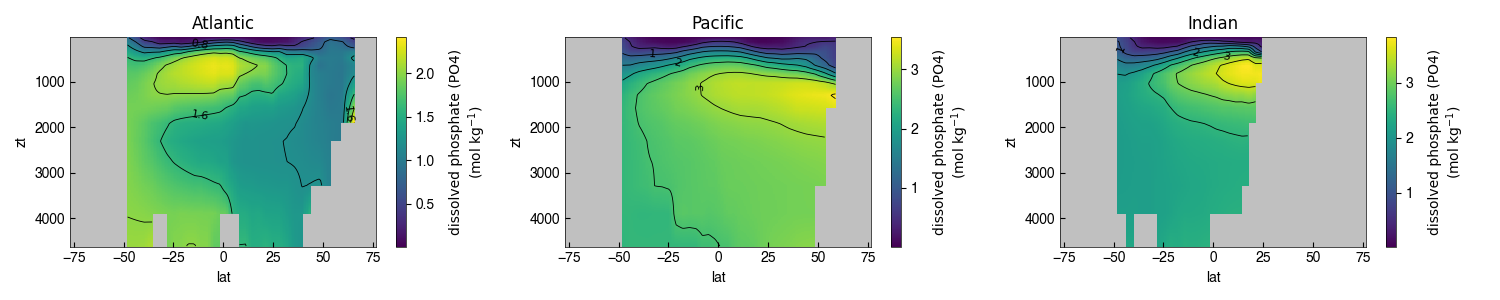
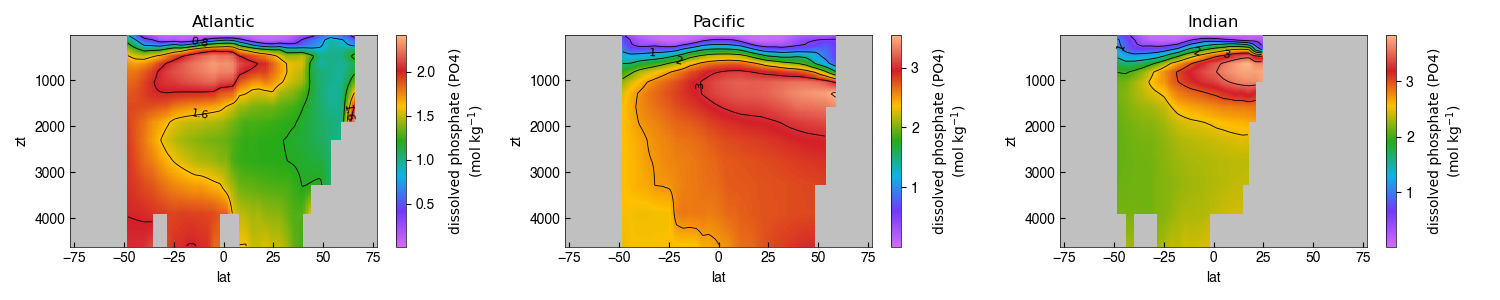
modify the PO4 distribution plot example

diff --git a/docs/source/auto_examples/plot_PO4_distribution.py b/docs/source/auto_examples/plot_PO4_distribution.py
@@ -3,23 +3,35 @@
 Plot 2D transect of tracers in each basin
 =========================================
 
-This example shows how to plot the PO4 distribution in each basin.
+This example plots the modelled PO4 distribution in cGENIE.
+
+The following features in the package are used:
+* Access data through `cgeniepy.model` module
+* A basin-mask operation
+* A linear interpolation
+* Additional color palette (mirrors the one in ODV)
+* Self-optimised plotting method
 """
 
 from cgeniepy.model import GenieModel
+from cgeniepy.plot import CommunityPalette
 import matplotlib.pyplot as plt
 
 model = GenieModel("/Users/yingrui/Science/lgm_foram_niche/model/muffin.CBE.worlg4.BASESFeTDTL.SPIN")
 ocn_po4 = model.get_var("ocn_PO4").isel(time=-1)
 
-fig, axs=plt.subplots(nrows=1, ncols=3, figsize=(15, 3), tight_layout=True)        
+fig, axs=plt.subplots(nrows=1, ncols=3, figsize=(15, 3), tight_layout=True)
 
 basins = ['Atlantic', 'Pacific', 'Indian']
 
-for i in range(3):
-	basin_data = model.get_var('ocn_PO4').isel(time=-1).mask_basin(base='worjh2',basin=basins[i], subbasin='')
-	basin_data.data.values = basin_data.data.values * 1E6
-	basin_data.mean(dim='lon').interpolate().plot(ax=axs[i], contour=True)
-	axs[i].title.set_text(basins[i])
+odv_cmap = CommunityPalette().get_palette('ODV', reverse=True)
 
-plt.show()        
+for i in range(3):
+    basin_data = model.get_var('ocn_PO4').isel(time=-1).mask_basin(base='worjh2',basin=basins[i], subbasin='')
+    basin_data.data.values = basin_data.data.values * 1E6
+    basin_data_interp = basin_data.mean(dim='lon').interpolate().to_GriddedDataVis()
+    basin_data_interp.aes_dict['pcolormesh_kwargs']['cmap'] = odv_cmap
+    basin_data_interp.plot(ax=axs[i], contour=True)
+    axs[i].title.set_text(basins[i])
+
+plt.show()

diff --git a/docs/source/auto_examples/plot_PO4_distribution.rst b/docs/source/auto_examples/plot_PO4_distribution.rst
@@ -22,9 +22,16 @@
 Plot 2D transect of tracers in each basin
 =========================================
 
-This example shows how to plot the PO4 distribution in each basin.
+This example plots the modelled PO4 distribution in cGENIE.
 
-.. GENERATED FROM PYTHON SOURCE LINES 8-26
+The following features in the package are used:
+* Access data through `cgeniepy.model` module
+* A basin-mask operation
+* A linear interpolation
+* Additional color palette (mirrors the one in ODV)
+* Self-optimised plotting method
+
+.. GENERATED FROM PYTHON SOURCE LINES 15-38
 
 
 
@@ -38,7 +45,8 @@ This example shows how to plot the PO4 distribution in each basin.
 
  .. code-block:: none
 
-    /Users/yingrui/cgeniepy/src/cgeniepy/model.py:48: UserWarning: No gemflag is provided, use default gemflags: [biogem]
+    <frozen importlib._bootstrap>:241: RuntimeWarning: scipy._lib.messagestream.MessageStream size changed, may indicate binary incompatibility. Expected 56 from C header, got 64 from PyObject
+    /Users/yingrui/cgeniepy/src/cgeniepy/model.py:49: UserWarning: No gemflag is provided, use default gemflags: [biogem]
       warnings.warn("No gemflag is provided, use default gemflags: [biogem]")
 
 
@@ -52,27 +60,32 @@ This example shows how to plot the PO4 distribution in each basin.
 
 
     from cgeniepy.model import GenieModel
+    from cgeniepy.plot import CommunityPalette
     import matplotlib.pyplot as plt
 
     model = GenieModel("/Users/yingrui/Science/lgm_foram_niche/model/muffin.CBE.worlg4.BASESFeTDTL.SPIN")
     ocn_po4 = model.get_var("ocn_PO4").isel(time=-1)
 
-    fig, axs=plt.subplots(nrows=1, ncols=3, figsize=(15, 3), tight_layout=True)        
+    fig, axs=plt.subplots(nrows=1, ncols=3, figsize=(15, 3), tight_layout=True)
 
     basins = ['Atlantic', 'Pacific', 'Indian']
 
-    for i in range(3):
-    	basin_data = model.get_var('ocn_PO4').isel(time=-1).mask_basin(base='worjh2',basin=basins[i], subbasin='')
-    	basin_data.data.values = basin_data.data.values * 1E6
-    	basin_data.mean(dim='lon').interpolate().plot(ax=axs[i], contour=True)
-    	axs[i].title.set_text(basins[i])
+    odv_cmap = CommunityPalette().get_palette('ODV', reverse=True)
 
-    plt.show()        
+    for i in range(3):
+        basin_data = model.get_var('ocn_PO4').isel(time=-1).mask_basin(base='worjh2',basin=basins[i], subbasin='')
+        basin_data.data.values = basin_data.data.values * 1E6
+        basin_data_interp = basin_data.mean(dim='lon').interpolate().to_GriddedDataVis()
+        basin_data_interp.aes_dict['pcolormesh_kwargs']['cmap'] = odv_cmap
+        basin_data_interp.plot(ax=axs[i], contour=True)
+        axs[i].title.set_text(basins[i])
+
+    plt.show()
 
 
 .. rst-class:: sphx-glr-timing
 
-   **Total running time of the script:** (0 minutes 1.833 seconds)
+   **Total running time of the script:** (0 minutes 1.609 seconds)
 
 
 .. _sphx_glr_download_auto_examples_plot_PO4_distribution.py:

diff --git a/docs/source/auto_examples/sg_execution_times.rst b/docs/source/auto_examples/sg_execution_times.rst
@@ -6,7 +6,7 @@
 
 Computation times
 =================
-**00:03.602** total execution time for 13 files **from auto_examples**:
+**00:01.609** total execution time for 14 files **from auto_examples**:
 
 .. container::
 
@@ -32,11 +32,8 @@ Computation times
    * - Example
      - Time
      - Mem (MB)
-   * - :ref:`sphx_glr_auto_examples_plot_multiple_vars.py` (``plot_multiple_vars.py``)
-     - 00:03.602
-     - 0.0
    * - :ref:`sphx_glr_auto_examples_plot_PO4_distribution.py` (``plot_PO4_distribution.py``)
-     - 00:00.000
+     - 00:01.609
      - 0.0
    * - :ref:`sphx_glr_auto_examples_plot_additional_cmap.py` (``plot_additional_cmap.py``)
      - 00:00.000
@@ -53,6 +50,9 @@ Computation times
    * - :ref:`sphx_glr_auto_examples_plot_logo.py` (``plot_logo.py``)
      - 00:00.000
      - 0.0
+   * - :ref:`sphx_glr_auto_examples_plot_multiple_vars.py` (``plot_multiple_vars.py``)
+     - 00:00.000
+     - 0.0
    * - :ref:`sphx_glr_auto_examples_plot_other_models.py` (``plot_other_models.py``)
      - 00:00.000
      - 0.0
@@ -66,6 +66,9 @@ Computation times
      - 00:00.000
      - 0.0
    * - :ref:`sphx_glr_auto_examples_plot_sst_map.py` (``plot_sst_map.py``)
+     - 00:00.000
+     - 0.0
+   * - :ref:`sphx_glr_auto_examples_plot_taylor_diagram.py` (``plot_taylor_diagram.py``)
      - 00:00.000
      - 0.0
    * - :ref:`sphx_glr_auto_examples_plot_timeseries.py` (``plot_timeseries.py``)

diff --git a/docs/source/auto_examples/index.rst b/docs/source/auto_examples/index.rst
@@ -167,7 +167,7 @@ Below is a gallery of examples
 
 .. raw:: html
 
-    <div class="sphx-glr-thumbcontainer" tooltip="This example shows how to plot the PO4 distribution in each basin.">
+    <div class="sphx-glr-thumbcontainer" tooltip="This example plots the modelled PO4 distribution in cGENIE.">
 
 .. only:: html
 
